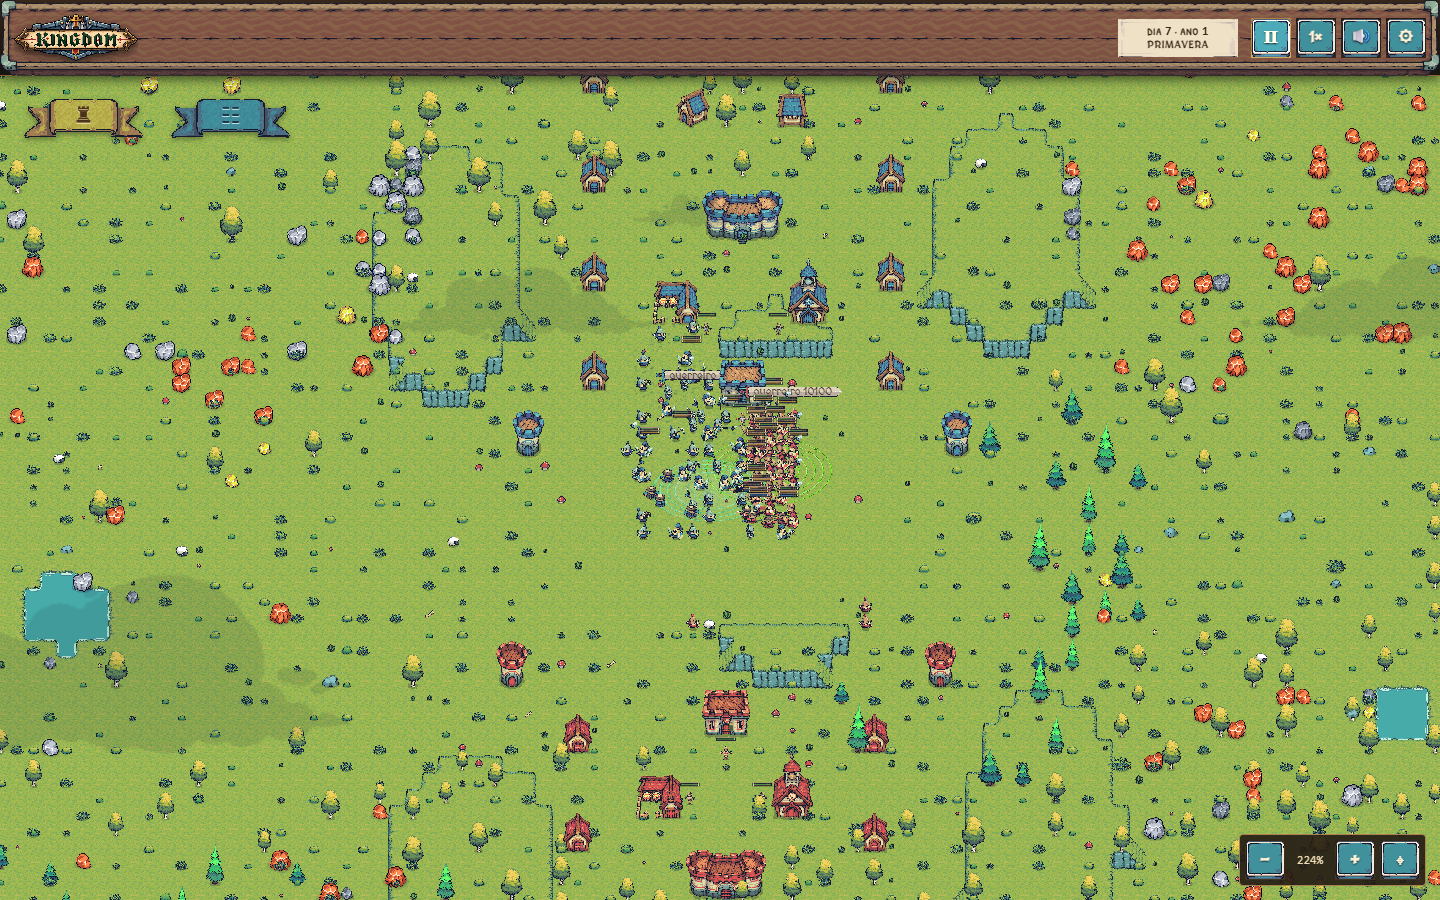
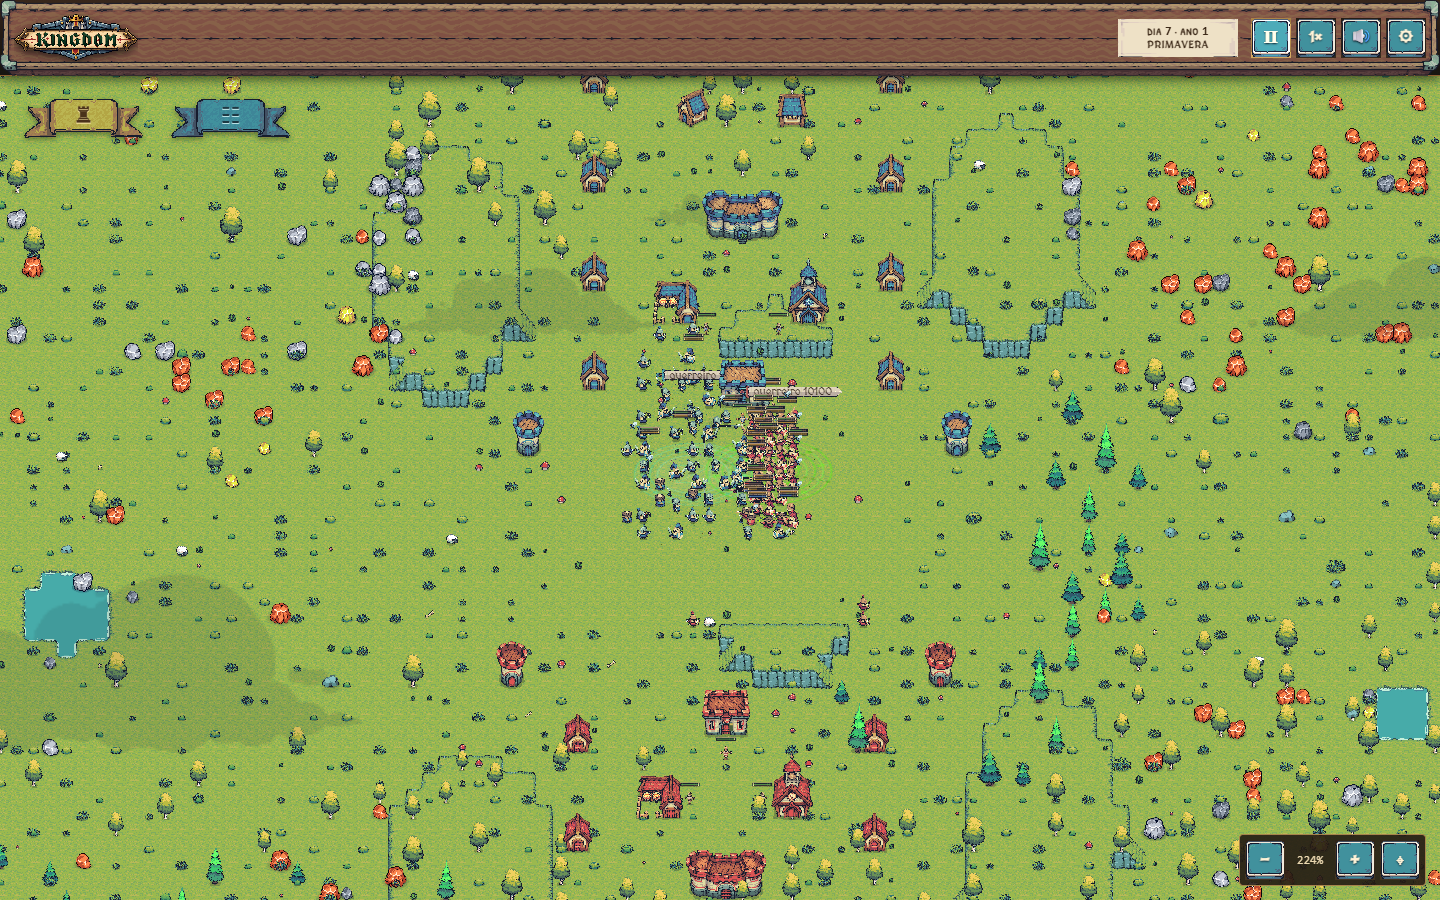
feat: add denser turbulent flame particles to magic effects

diff --git a/src/ui/magic/particle-runtime.js b/src/ui/magic/particle-runtime.js
@@ -51,11 +51,34 @@
  // raster for VFX instead of rounding every detail to an entire map pixel.
  const raster=x=>Math.round(x*24)/24;
  function drawBlock(ctx,x,y,w,h,color){ctx.fillStyle=color;ctx.fillRect(raster(x),raster(y),Math.max(1/24,raster(w)),Math.max(1/24,raster(h)))}
+ const particleImages=new Map();
  function drawParticle(ctx,x,y,s,kind,pal,alpha){
   if(alpha<.012)return;
   // Eighth-size particles, including outlines and highlights. Reducing only the
   // central size left the old one-map-pixel padding dominating the whole shape.
   s=Math.max(1/24,Math.round(s*3)/24);
+  // Tiny particles share cached glyphs. Applying opacity at draw time avoids
+  // repainting their outline, core and highlight for every particle/frame.
+  if(typeof document!=='undefined'&&ctx.drawImage&&Number.isFinite(ctx.globalAlpha)){
+   const key=[kind,s,pal.main,pal.highlight,pal.shadow].join(':');
+   let image=particleImages.get(key);
+   if(!image){
+    const margin=Math.max(s,.125)+.125,resolution=24;
+    const canvas=document.createElement('canvas');canvas.width=canvas.height=Math.ceil((margin*2+s*3+.125)*resolution);
+    const context=canvas.getContext('2d');context.scale(resolution,resolution);
+    drawParticlePixels(context,margin,margin,s,kind,pal,1);
+    image={canvas,margin,size:canvas.width/resolution};
+    if(particleImages.size>=256)particleImages.delete(particleImages.keys().next().value);
+    particleImages.set(key,image);
+   }
+   const opacity=ctx.globalAlpha,smoothing=ctx.imageSmoothingEnabled;
+   ctx.globalAlpha=opacity*alpha;ctx.imageSmoothingEnabled=true;
+   ctx.drawImage(image.canvas,x-image.margin,y-image.margin,image.size,image.size);
+   ctx.globalAlpha=opacity;ctx.imageSmoothingEnabled=smoothing;return;
+  }
+  drawParticlePixels(ctx,x,y,s,kind,pal,alpha);
+ }
+ function drawParticlePixels(ctx,x,y,s,kind,pal,alpha){
   const pixel=.125,detail=1/24;
   const dark=rgba(pal.shadow,alpha),main=rgba(pal.main,alpha),light=rgba(pal.highlight,alpha);
   if(kind==='spark'){
@@ -220,9 +243,11 @@
    const upward=c.auraHeight*c.scale*(isGround?.65:1);
    const swell=Math.sin(PI*v);
    const turbulence=isFire?c.flameTurbulence:0.22;
-   const sway=Math.sin(t*5.7+i*2.8)*turbulence*5*c.scale*(.2+v);
-   const x=cx+p.x+sway;
-   const y=cy+p.y-upward*v;
+   const wave=Math.sin(t*5.7+i*2.8)+Math.sin(t*9.1+i*1.7+v*TAU)*.35;
+   const sway=wave*turbulence*Math.min(5*c.scale,Math.max(.5,r*.22))*(.2+v);
+   const spread=isFire?1-v*.55:1;
+   const x=cx+p.x*spread+sway;
+   const y=cy+p.y*spread-upward*v+(isFire?Math.sin(t*7.3+i*3.1)*turbulence*v*.3*c.scale:0);
    const alpha=c.particleOpacity*(isFire?Math.pow(swell,.95):Math.pow(swell,.7));
    const shape=c.unifyParticles?c.particleShape:(isGround?c.groundParticleShape:c.auraParticleShape);
    const sz=c.particleSize*c.scale*(i%9===0?1.3:1)*(isFire?(1-v*.78):1);

diff --git a/src/ui/magic/presentation.js b/src/ui/magic/presentation.js
@@ -13,7 +13,7 @@ const mix = (hex, amount) => '#' + hex.slice(1).match(/../g).map(part => {
   return Math.round(value + (amount > 0 ? 255 - value : value) * amount).toString(16).padStart(2, '0');
 }).join('');
 
-export function createMagicPresentation({ tileSize, maxParticles = 1800, maxEffects = 360 } = {}) {
+export function createMagicPresentation({ tileSize, maxParticles = 2700, maxEffects = 360 } = {}) {
   const system = new DebuffSystem(), entries = new Map(), indicatorConfigs = new Map(), styles = new Map();
   const visibleEntries = [], poseCache = new Map();
   let lastRenderAt = 0, particleCount = 0;
@@ -36,10 +36,10 @@ export function createMagicPresentation({ tileSize, maxParticles = 1800, maxEffe
           ringThickness: .375, magicPattern: data.circle,
           ringOpacity: data.circle ? .95 : 0,
           flatten: .53, rotationSpeed: profile.rotationSpeed, ringPulse: .04,
-          groundCount: data.circle ? 18 : 8, auraCount: data.circle ? 14 : 9,
+          groundCount: data.circle ? 27 : 12, auraCount: data.circle ? 21 : 14,
           particleSize: 1, auraHeight: tileSize * (data.circle ? 1.1 : 1.5),
-          particleSpeed: data.particleSpeed ?? 1, particleOpacity: .9, particleGlow: 0,
-          particleMotion: data.circle ? 'rise' : 'orbit', unifyParticles: false,
+          particleSpeed: data.particleSpeed ?? 1.2, particleOpacity: .9, particleGlow: 0,
+          particleMotion: 'rise', emissionStyle: 'flame', flameTurbulence: 1.1, unifyParticles: false,
           colors: { main: color, highlight: mix(color, .4), shadow: mix(color, -.65) },
           ...style, particleGlow: 0 });
         entry = { handle, ...data }; entries.set(key, entry);
@@ -128,9 +128,9 @@ export function createMagicPresentation({ tileSize, maxParticles = 1800, maxEffe
     for (const entry of visibleEntries) {
       const config = system.effects.get(entry.handle).config;
       const style = styles.get(entry.spellId) || {};
-      const wanted = Math.min(60, Math.max(0, style.particleCount ?? (entry.circle ? 32 : 17)));
+      const wanted = Math.min(60, Math.max(0, style.particleCount ?? (entry.circle ? 48 : 26)));
       const granted = Math.min(wanted, perEffect);
-      config.groundCount = Math.min(entry.circle ? 18 : 8, granted);
+      config.groundCount = Math.min(entry.circle ? 27 : 12, granted);
       config.auraCount = granted - config.groundCount;
       particleCount += granted;
     }

diff --git a/docs/verification/priest-vfx-refinement-20261030.md b/docs/verification/priest-vfx-refinement-20261030.md
@@ -11,6 +11,12 @@ Atualiza a implementação inicial descrita em `priest-tactical-magic-20261030.m
 - Partículas mantêm o tamanho reduzido das iterações anteriores. O último ajuste aumenta a grade de detalhe de 16 para 24 amostras por unidade e os níveis de transparência de 32 para 48, preservando o tamanho. Quantidade desejada: 21 → 32 em círculos, 11 → 17 em personagens/zonas; orçamento global 1.200 → 1.800, dividido entre emissores visíveis.
 - Selos são rasterizados a 8× e reutilizados em cache limitado a 64 imagens/16 milhões de pixels. A filtragem na redução preserva as linhas finas, sem aplicar blur ao mapa ou aos sprites.
 
+### Ajuste posterior: chamas e turbulência
+
+A pedido do usuário, círculos e personagens passaram a emitir partículas ascendentes em modo `flame`, com turbulência 1,1 e duas ondas sobrepostas. A dispersão converge gradualmente no alto; cada partícula diminui e desaparece ao subir. O tamanho-base reduzido foi preservado. Quantidade desejada: 48 por círculo e 26 por personagem/zona; orçamento global 2.700. Glifos de partículas são reutilizados em cache de até 256 imagens, com transparência aplicada no desenho.
+
+Os dez testes de apresentação e o TypeScript passaram. Nova execução visual com 100 soldados não apresentou erros de página, mas mediu aproximadamente 24 renderizações/s e p95 do mapa de 51,5 ms. O aumento de densidade não é anunciado como melhoria de desempenho; o cenário de batalha continua pesado nesta máquina. Dados atuais em `visual-report.json`.
+
 ## Validação
 
 57 testes focados passaram (magias, apresentação, integração com armas e controles), mais TypeScript. Incluem área fixa, animação na preparação/finalização, expiração sem círculo, partículas persistentes, 16 perfis distintos e orçamento de emissão. A suíte completa de 519 testes registrada no relatório inicial é uma medição anterior; não foi repetida para cada ajuste visual.
